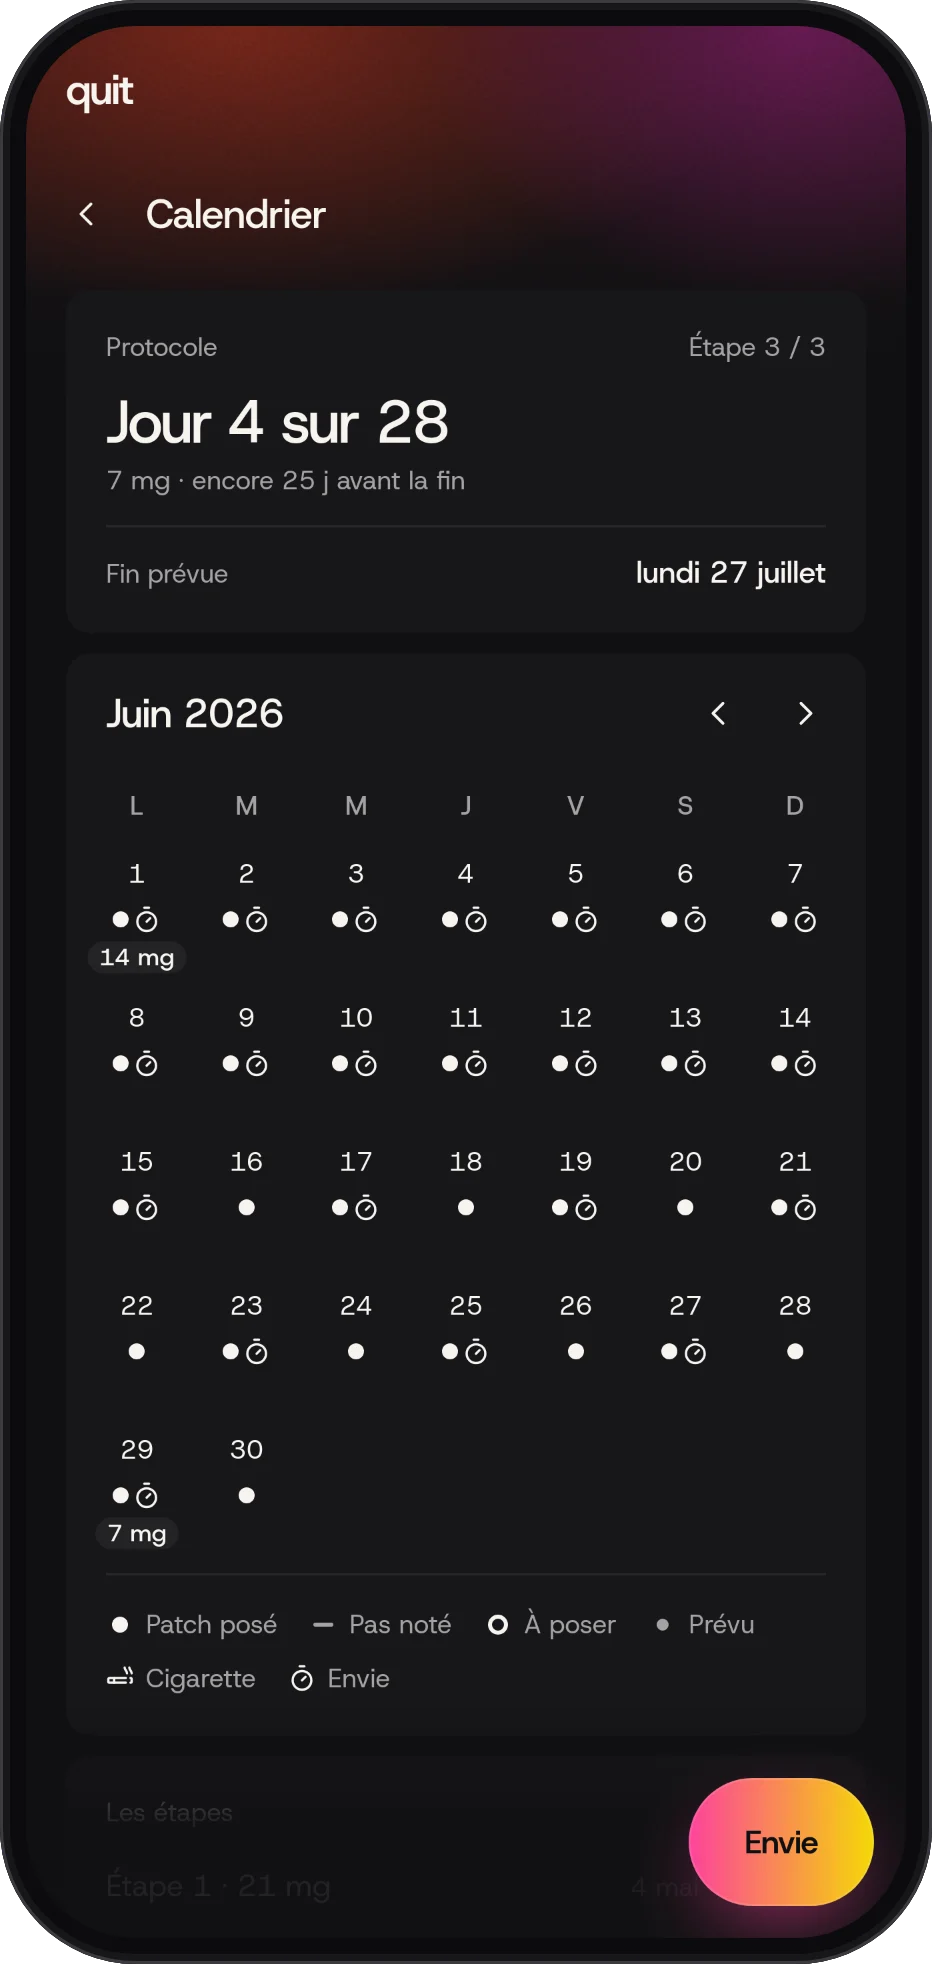
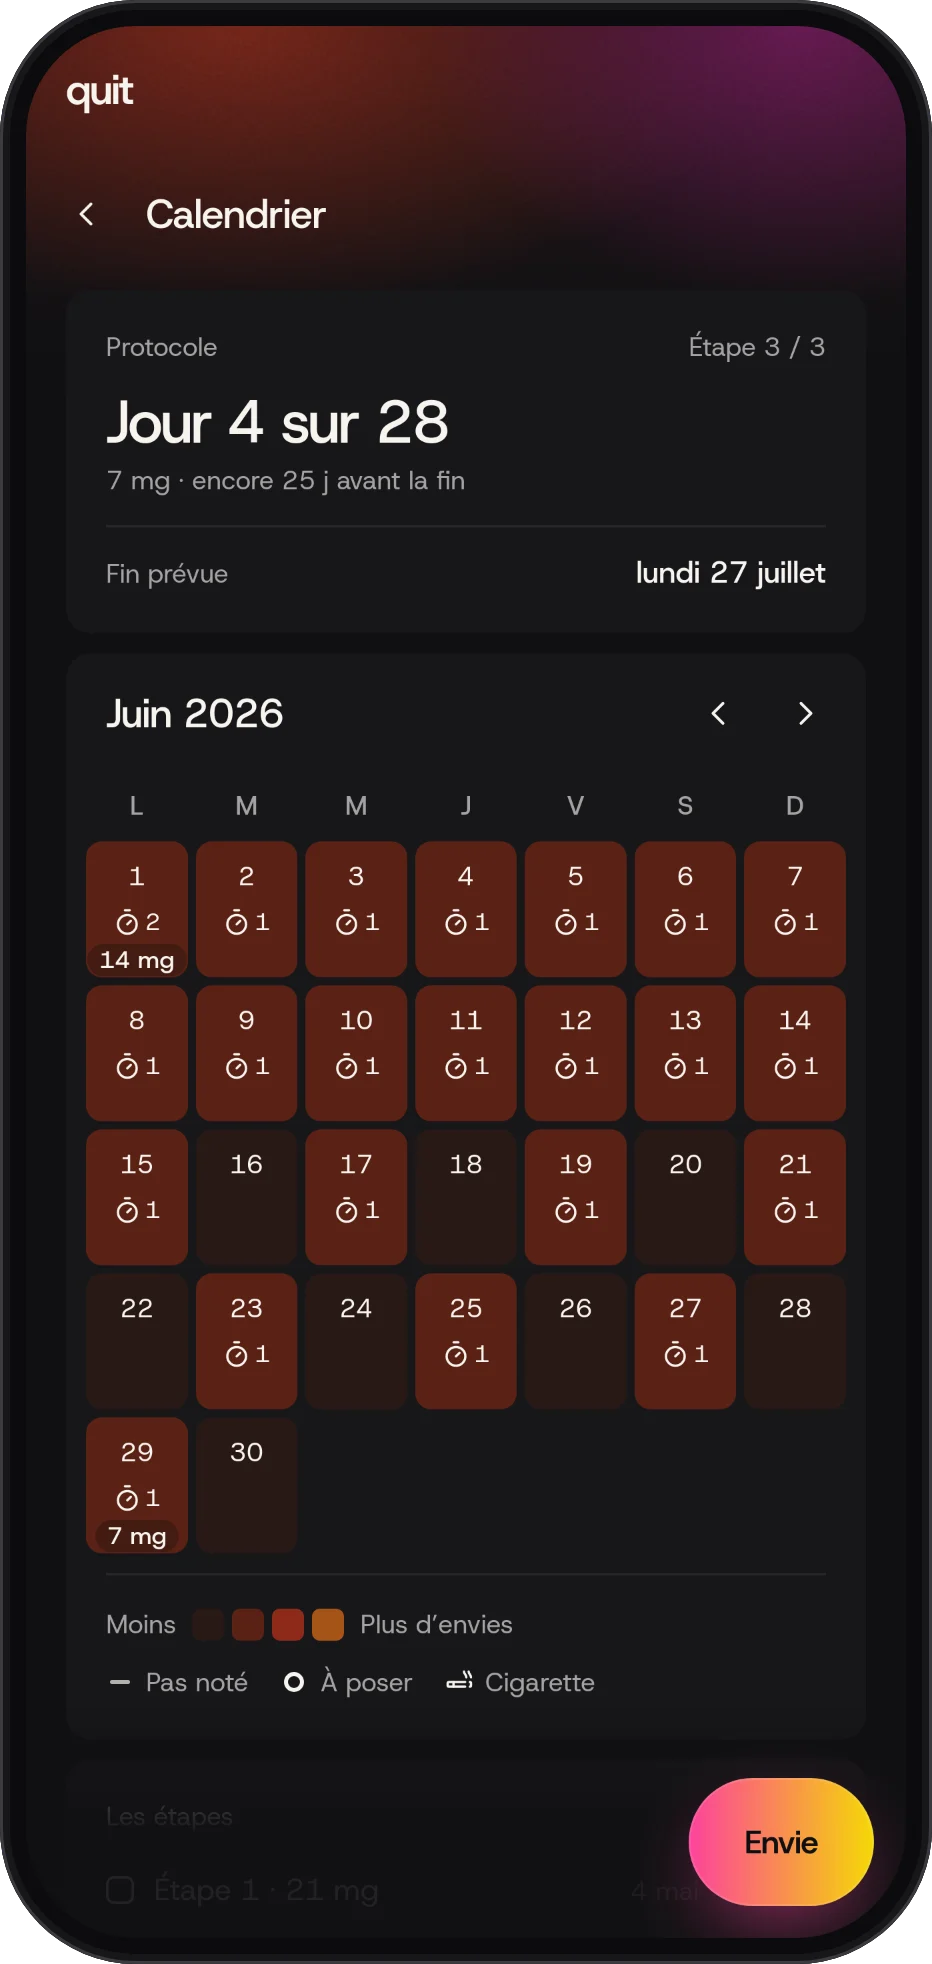
docs(readme): regenerate screenshots after SYR-92/93/94 (SYR-95) (#73)
The screenshot script waited for the totals card that SYR-92 now hides
until a lapse exists; drop that step. Calendar alt text matches the
craving heatmap.

Changed region(s): [[0.0933, 0.4038, 0.9335, 0.8697], [0.7468, 0.8075, 0.809, 0.8386]]

diff --git a/README.md b/README.md
@@ -8,7 +8,7 @@ offline on the phone, and a small server keeps a mirror of its journal.
 <p align="center">
   <img src="docs/screenshots/home.webp" width="190" alt="Home: the streak in days over the amber and plum haze, the Envie button at the bottom right">
   <img src="docs/screenshots/craving-timer.webp" width="190" alt="Craving timer: a countdown at 2:37 in a moss and bronze haze, with a stop button">
-  <img src="docs/screenshots/calendar.webp" width="190" alt="Calendar: day 4 of 28 of the 7 mg step, and June with a patch applied every day">
+  <img src="docs/screenshots/calendar.webp" width="190" alt="Calendar: day 4 of 28 of the 7 mg step, and June with each day shaded by its cravings, the dose shown only where it changes">
   <img src="docs/screenshots/stats.webp" width="190" alt="Stats: 92 cravings logged, 99 % held to the end, most at 18 h, over coffee">
 </p>
 
